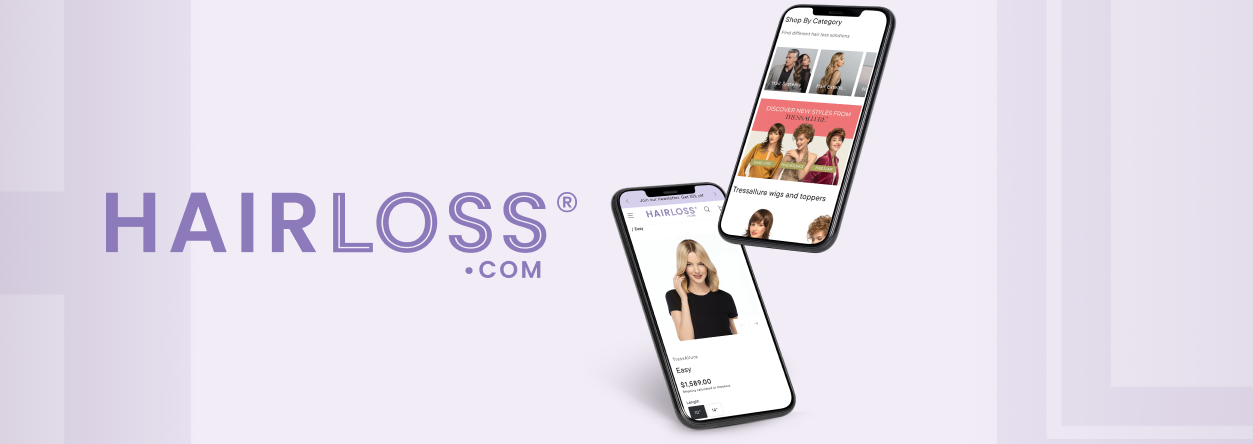
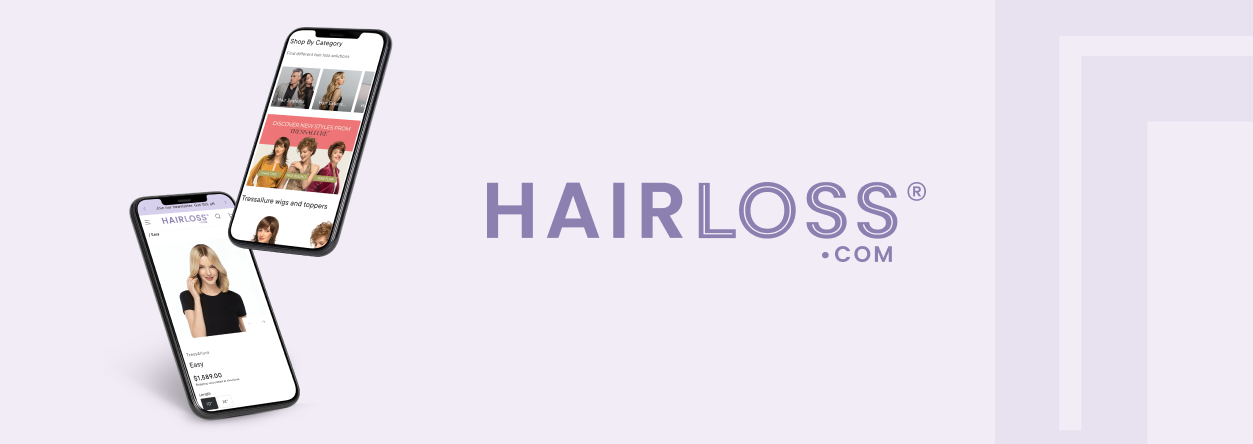
changed

Changed region(s): [[0.0, 0.0, 0.747, 1.0], [0.9649, 0.8491, 1.0, 1.0]]

diff --git a/src/App.tsx b/src/App.tsx
@@ -14,7 +14,7 @@ import { Contact } from './Components/Contact/Contact';
 //BannersAndImages
 
 //NewImageLabs
-import bannerNil from './assets/Images/NILProject/BannerDesignNIL.png';
+import bannerPG from './assets/Images/NILProject/BannerPG.jpg';
 import bannerNilThumb from './assets/Images/NILProject/BannerThumbnailNIL.png';
 import userProgen from './assets/Images/NILProject/user-PG.png';
 import researchProgen from './assets/Images/NILProject/Research-PG.png';
@@ -34,7 +34,7 @@ import retailersTA from './assets/Images/TAProject/retailers-list.png';
 
 
 //HL
-import bannerHL from './assets/Images/HLProject/BannerDesignHL.png';
+import bannerHL from './assets/Images/HLProject/BannerHL.png';
 import bannerHLThumb from './assets/Images/HLProject/BannerThumbnailHL.png';
 import wireframeHL from './assets/Images/HLProject/homeHL.png';
 import homeHL from './assets/Images/HLProject/hlHome.png';
@@ -123,7 +123,7 @@ function App() {
       list3: 'Connected the website with Amazon and social media platforms, ensuring a seamless digital presence to drive discovery, engagement, and conversions.',
       listTitle4: 'Innovative Features',
       list4: 'Developed functionalities to support both B2B and B2C operations, seamlessly integrating online sales with the sales team. This ensured a smooth workflow for order processing, client management, and communication between digital and physical sales channels.',
-      bannerImg: bannerNil,
+      bannerImg: bannerPG,
       bannerThumbnail: bannerNilThumb,
       subtitle1: 'Investigation and Userflows',
       paragraph1: '',
@@ -200,7 +200,7 @@ function App() {
       list4: 'The site is on track to launch by end of this month with all the main features and pages wanted by the stakeholders.',
       bannerImg: bannerTA,
       bannerThumbnail: bannerTAThumb,
-      background: 'TressAllure is a wholesale wig brand created in 2005.',
+      background: 'TressAllure, created in the year 2000, is a wig brand that mainly focuses on ready-to-wear synthetic wigs.',
       subtitle1: 'Understanding the needs of business for the website - Retailers and End-Consumers',
       paragraph1: '',
       image1: retailersTA,
@@ -220,9 +220,9 @@ function App() {
     {
 
       id: 3,
-      title: 'Hairloss.com',
-      subtitle: 'E-commerce built with Shopify',
-      role: 'UX/UI, Project Manager, Frontend, Shopify,',
+      title: 'Building and Launching Marketplace Hairloss.com',
+      subtitle: 'UX, UI, Project Management, Frontend ',
+      role: 'UX/UI Lead',
       overview: 'Branding, website design, development, and customer experience optimization.',
       date: 'May 2024 - January 2025',
       background: 'Hairloss.com was developed as a consumer-first platform, providing solutions, education, and products for both men and women experiencing hair loss.',

diff --git a/src/Components/Artwork/Artwork.tsx b/src/Components/Artwork/Artwork.tsx
@@ -7,7 +7,7 @@ import space from '../../assets/Images/ArtGallery/space.png';
 import girl1 from '../../assets/Images/ArtGallery/Alice.jpg';
 import fairy from '../../assets/Images/ArtGallery/Fairy.jpg';
 import inked from '../../assets/Images/ArtGallery/DesignInkBG.png';
-import sexura from '../../assets/Images/ArtGallery/Sexurados.png';
+import catalogMen from '../../assets/Images/ArtGallery/catalog-men-nil-mockup.png';
 import raven from '../../assets/Images/ArtGallery/raven.png';
 import final from '../../assets/Images/ArtGallery/final.jpg';
 import shirt from '../../assets/Images/ArtGallery/blackVersion2.jpg';
@@ -30,8 +30,8 @@ interface ArtworkItem {
 }
 
 const designImages: ArtworkItem[] = [
-  { src: shirt, alt: "Shirt Design", caption: "Shirt design for university group" },
-  { src: sexura, alt: "Durex app design", caption: "Icon and Mobile App for Durex App Concept", extraImages: [heroweb, herowebmockup] },
+  { src: shirt, alt: "Shirt Design", caption: "Shirt design for University Group" },
+  { src: catalogMen, alt: "Catalog Men Mockup", caption: "Catalog for Men's Toupees"},
   { src: progen1, alt: "Reel", caption: "Reel Ad for Progen", extraImages: [progen2] },
   { src: hero, alt: "Hero", caption: "Hero for HL.com", extraImages: [heroweb, herowebmockup] },
 ];

diff --git a/src/Styles/_colors.scss b/src/Styles/_colors.scss
@@ -6,6 +6,7 @@ $purpleSecondary:#8a91f0;
 $darkpurple:#454a95;
 
 $pink:#FFA18E;
+$green:#D2FFBF;
 
 $textPrimary:#222022;
 $textSecondary:#5a5a5a;
